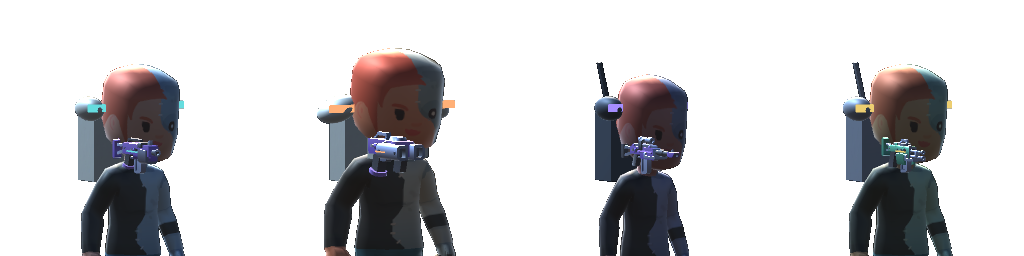
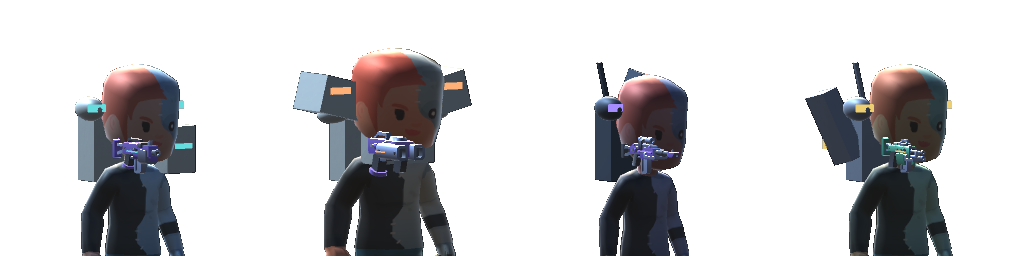
Add arena atmosphere effects and refine pilot silhouettes

diff --git a/unity-vfx-preview/Assets/Scripts/Native/VisorComposite.cs b/unity-vfx-preview/Assets/Scripts/Native/VisorComposite.cs
@@ -9,19 +9,35 @@ namespace Trias.Native
         static readonly int Blur = Shader.PropertyToID("_Blur");
         static readonly int Tone = Shader.PropertyToID("_Tone");
         static readonly int Damage = Shader.PropertyToID("_Damage");
+        static readonly int Shafts = Shader.PropertyToID("_ShaftTex");
+        static readonly int Source = Shader.PropertyToID("_ShaftSource");
+        static readonly int HeightRay = Shader.PropertyToID("_HeightRay");
+        static readonly int Fog = Shader.PropertyToID("_HeightFog");
+        static readonly int FogTint = Shader.PropertyToID("_FogTint");
+        static readonly int ShaftTint = Shader.PropertyToID("_ShaftTint");
+        static readonly int Bloom = Shader.PropertyToID("_Bloom");
         Material material;
+        Camera view;
         internal float DamagePulse;
         internal bool InMatch;
+        internal float Intensity = 1;
         Vector4 tone = Vector4.one;
+        Vector4 fog;
+        Color haze, light;
+        float bloomIntensity, shaftIntensity;
+        Vector3 emitter;
+        bool sunlight;
 
         void Awake()
         {
+            view = GetComponent<Camera>();
             var shader = Resources.Load<Shader>("TRIAS/VisorComposite");
             if (shader != null && shader.isSupported) material = new Material(shader);
         }
 
         internal void Grade(string arena)
         {
+            sunlight = arena == "island";
             tone = arena switch
             {
                 "foundry" => new Vector4(1.07f, .99f, .95f, 1.09f),
@@ -29,31 +45,92 @@ namespace Trias.Native
                 "island" => new Vector4(.86f, .89f, .94f, .85f),
                 _ => new Vector4(.98f, 1.02f, 1.08f, 1.08f)
             };
+            switch (arena)
+            {
+                case "foundry":
+                    fog = new Vector4(.044f, .34f, 2.3f, .19f); haze = Catalog.Tint("#82534e");
+                    light = Catalog.Tint("#ff9b58"); emitter = new Vector3(0, 8.7f, 0);
+                    bloomIntensity = .44f; shaftIntensity = .48f;
+                    break;
+                case "basin":
+                    fog = new Vector4(.026f, -.06f, 3.9f, .20f); haze = Catalog.Tint("#9d786a");
+                    light = Catalog.Tint("#ffc58a"); emitter = new Vector3(-43, 16, 37);
+                    bloomIntensity = .24f; shaftIntensity = .39f;
+                    break;
+                case "island":
+                    fog = new Vector4(.032f, .18f, 2.2f, .23f); haze = Catalog.Tint("#a1caca");
+                    light = Catalog.Tint("#fff2c3");
+                    bloomIntensity = .16f; shaftIntensity = .37f;
+                    break;
+                default:
+                    fog = new Vector4(.023f, -.28f, 2.1f, .14f); haze = Catalog.Tint("#576e87");
+                    light = Catalog.Tint("#ffc776"); emitter = new Vector3(0, 9.4f, 0);
+                    bloomIntensity = .33f; shaftIntensity = .40f;
+                    break;
+            }
+        }
+
+        bool AtmosphereEnabled => InMatch && material != null && Intensity > .01f;
+
+        void OnPreCull()
+        {
+            if (AtmosphereEnabled) view.depthTextureMode |= DepthTextureMode.Depth;
+            else view.depthTextureMode &= ~DepthTextureMode.Depth;
+        }
+
+        float RayHeight(float x, float y)
+        {
+            var direction = view.ViewportPointToRay(new Vector3(x, y, 0)).direction;
+            return direction.y / Mathf.Max(.1f, Vector3.Dot(direction, view.transform.forward));
         }
 
         void OnRenderImage(RenderTexture source, RenderTexture destination)
         {
             if (!InMatch || material == null) { Graphics.Blit(source, destination); return; }
             int width = Mathf.Max(1, source.width / 4), height = Mathf.Max(1, source.height / 4);
-            var bloom = RenderTexture.GetTemporary(width, height, 0, source.format);
-            var scratch = RenderTexture.GetTemporary(width, height, 0, source.format);
+            RenderTexture bloom = null, scratch = null, shafts = null;
             try
             {
-                bloom.filterMode = scratch.filterMode = FilterMode.Bilinear;
-                Graphics.Blit(source, bloom, material, 0);
-                material.SetVector(Blur, new Vector4(1.15f, 0));
-                Graphics.Blit(bloom, scratch, material, 1);
-                material.SetVector(Blur, new Vector4(0, 1.15f));
-                Graphics.Blit(scratch, bloom, material, 1);
-                material.SetTexture(Glow, bloom);
+                float strength = AtmosphereEnabled ? Intensity : 0;
+                if (strength > 0)
+                {
+                    bloom = RenderTexture.GetTemporary(width, height, 0, source.format);
+                    scratch = RenderTexture.GetTemporary(width, height, 0, source.format);
+                    bloom.filterMode = scratch.filterMode = FilterMode.Bilinear;
+                    Graphics.Blit(source, bloom, material, 0);
+                    material.SetVector(Blur, new Vector4(1.15f, 0));
+                    Graphics.Blit(bloom, scratch, material, 1);
+                    material.SetVector(Blur, new Vector4(0, 1.15f));
+                    Graphics.Blit(scratch, bloom, material, 1);
+
+                    Vector3 origin = sunlight ? view.transform.position + TriasWorld.IslandSun * view.farClipPlane : emitter;
+                    Vector3 point = view.WorldToViewportPoint(origin);
+                    if (point.z > 1 && point.x > -.20f && point.x < 1.20f && point.y > -.20f && point.y < 1.20f)
+                    {
+                        shafts = RenderTexture.GetTemporary(width, height, 0, RenderTextureFormat.Default);
+                        shafts.filterMode = FilterMode.Bilinear;
+                        float depth = sunlight ? view.farClipPlane * .97f : Mathf.Max(1, point.z - 2.9f);
+                        material.SetVector(Source, new Vector4(point.x, point.y, depth, shaftIntensity * strength));
+                        Graphics.Blit(source, shafts, material, 3);
+                    }
+                    float baseRay = RayHeight(0, 0);
+                    material.SetVector(HeightRay, new Vector4(baseRay, RayHeight(1, 0) - baseRay, RayHeight(0, 1) - baseRay, view.transform.position.y));
+                }
+                material.SetTexture(Glow, bloom != null ? (Texture)bloom : Texture2D.blackTexture);
+                material.SetTexture(Shafts, shafts != null ? (Texture)shafts : Texture2D.blackTexture);
+                material.SetVector(Fog, new Vector4(fog.x * strength, fog.y, fog.z, fog.w * strength));
+                material.SetColor(FogTint, haze);
+                material.SetColor(ShaftTint, light);
+                material.SetFloat(Bloom, bloomIntensity * strength);
                 material.SetFloat(Damage, DamagePulse);
                 material.SetVector(Tone, tone);
                 Graphics.Blit(source, destination, material, 2);
             }
             finally
             {
-                RenderTexture.ReleaseTemporary(scratch);
-                RenderTexture.ReleaseTemporary(bloom);
+                if (shafts != null) RenderTexture.ReleaseTemporary(shafts);
+                if (scratch != null) RenderTexture.ReleaseTemporary(scratch);
+                if (bloom != null) RenderTexture.ReleaseTemporary(bloom);
             }
         }
 

diff --git a/unity-vfx-preview/Assets/Scripts/Native/TriasWorld.Presentation.cs b/unity-vfx-preview/Assets/Scripts/Native/TriasWorld.Presentation.cs
@@ -1,4 +1,5 @@
 using UnityEngine;
+using System.Collections.Generic;
 
 namespace Trias.Native
 {
@@ -9,6 +10,8 @@ namespace Trias.Native
         Light reactorLight;
         Color reactorTint;
         float reactorShock;
+        internal static readonly Vector3 IslandSun = new Vector3(-.9f, .19f, .41f).normalized;
+        readonly List<Transform> excavators = new List<Transform>();
 
         void ConfigureSky(Camera view)
         {
@@ -28,6 +31,7 @@ namespace Trias.Native
             orbitalSky.SetColor("_LightColor", Catalog.Tint(island ? "#fff2cb" : "#f6b57b"));
             orbitalSky.SetColor("_Body", Catalog.Tint(Spec.id == "basin" ? "#594543" : "#385064"));
             orbitalSky.SetVector("_Planet", new Vector4(-.78f, .31f, .53f, .32f));
+            if (island) orbitalSky.SetVector("_SunDirection", IslandSun);
             orbitalSky.SetFloat("_Daylight", island ? 1 : 0);
             RenderSettings.skybox = orbitalSky;
             view.clearFlags = CameraClearFlags.Skybox;
@@ -62,14 +66,84 @@ namespace Trias.Native
             }
         }
 
-        void BuildReactor(bool foundry)
+        void BuildFoundryStacks()
         {
-            var mount = Group(Root, foundry ? "Tavicí komora" : "Orbitální relé", new Vector3(0, foundry ? 8.5f : 9.4f, 0));
-            reactorTint = Catalog.Tint(foundry ? "#ff743f" : "#ffab68");
-            reactorEnergy = MaterialAt(foundry ? "#ff743f" : "#ffab68", true);
-            var shell = MaterialAt(foundry ? "#745052" : "#637988", false, "bulkhead");
+            var steel = MaterialAt("#60454a", false, "armor");
+            var refractory = MaterialAt("#de794c", true);
+            for (int side = 0; side < 3; side++)
+            {
+                var furnace = Group(Root, "Foundry exhaust bank");
+                furnace.rotation = Quaternion.Euler(0, 120 * side, 0);
+                for (int i = -1; i <= 1; i++)
+                {
+                    float height = 7.8f + (i == 0 ? 2.3f : 0);
+                    var stack = Group(furnace, "Exhaust stack", new Vector3(i * 3.6f, 0, Spec.length + 7));
+                    Part(stack, steel, Vector3.up * (height / 2), new Vector3(2.4f, height / 2, 2.4f), PrimitiveType.Cylinder);
+                    Part(stack, Dark, Vector3.up * (height - .25f), new Vector3(2.9f, .47f, 2.9f), PrimitiveType.Cylinder);
+                    Ring(stack, Vector3.up * (height + .22f), 1.23f, refractory, .16f, 24);
+                    Ring(stack, Vector3.up * (height - 1.1f), 1.23f, Dark, .39f, 24);
+                }
+                Beam(furnace, steel, new Vector3(-8, 5.3f, Spec.length + 6), new Vector3(8, 5.3f, Spec.length + 6), 1.06f);
+            }
+        }
+
+        void BuildMiningRigs()
+        {
+            var rust = MaterialAt("#936858", false, "armor");
+            var marker = MaterialAt("#ffae63", true);
+            for (int i = 0; i < 3; i++)
+            {
+                var mast = Group(Root, "Mining rig");
+                mast.rotation = Quaternion.Euler(0, i * 120 + 27, 0);
+                float edge = Spec.length + 5.5f;
+                Vector3 bearing = new Vector3(0, 13.6f, edge);
+                Beam(mast, rust, new Vector3(-4, -.6f, edge), bearing, .93f);
+                Beam(mast, rust, new Vector3(4, -.6f, edge), bearing, .93f);
+                Beam(mast, Dark, new Vector3(-2.7f, 4.5f, edge), new Vector3(2.7f, 4.5f, edge), .52f);
+                var pivot = Group(mast, "Excavator arm", bearing);
+                Beam(pivot, Dark, new Vector3(-7, 0, 0), new Vector3(10.4f, 0, 0), .72f);
+                Part(pivot, rust, new Vector3(8.6f, -.7f, 0), new Vector3(3.1f, 2.05f, 1.73f));
+                Part(pivot, marker, new Vector3(-6.5f,.18f,0), new Vector3(.31f,.25f,.31f));
+                excavators.Add(pivot);
+            }
+        }
+
+        void BuildCrucible()
+        {
+            var mount = Group(Root, "Tavicí komora", new Vector3(0, 8.7f, 0));
+            var refractory = MaterialAt("#81443c", false, "bulkhead");
+            var insulation = MaterialAt("#3b272c", false, "armor");
+            var hot = MaterialAt("#ffa245", true);
+            reactorTint = Catalog.Tint("#ff672d");
+            reactorEnergy = MaterialAt("#ff672d", true);
+            reactorRotor = Group(mount, "Molten charge");
+            Part(reactorRotor, reactorEnergy, Vector3.zero, new Vector3(2.2f, .98f, 2.2f), PrimitiveType.Sphere);
+            var rim = Ring(mount, Vector3.zero, 3.2f, hot, .15f, 48);
+            rim.transform.localPosition = Vector3.down * .38f;
+            for (int i = 0; i < 8; i++)
+            {
+                var rib = Group(mount, "Refractory collar");
+                rib.localRotation = Quaternion.Euler(0, i * 45, 0);
+                Beam(rib, refractory, new Vector3(-1.27f, -.76f, 3.15f), new Vector3(1.27f, -.76f, 3.15f), .72f);
+                Beam(rib, insulation, new Vector3(-1.34f, -1.48f, 3.31f), new Vector3(1.34f, -1.48f, 3.31f), .51f);
+                Beam(rib, refractory, new Vector3(0, -1.42f, 3.15f), new Vector3(0, -2.4f, 1.62f), .88f);
+                Beam(rib, hot, new Vector3(-.87f, -.55f, 3.54f), new Vector3(.87f, -.55f, 3.54f), .072f);
+                if (i % 2 != 0) continue;
+                Beam(rib, insulation, new Vector3(0, -.9f, 3.48f), new Vector3(0, 3.8f, 7.0f), 1.05f);
+                Beam(rib, refractory, new Vector3(0, 3.8f, 7.0f), new Vector3(0, 4.2f, 13.3f), .68f);
+                Part(rib, hot, new Vector3(0, 3.66f, 7.02f), new Vector3(.32f, .2f, .51f));
+            }
+            SetReactorLight(mount);
+        }
+
+        void BuildReactor()
+        {
+            var mount = Group(Root, "Orbitální relé", new Vector3(0, 9.4f, 0));
+            reactorTint = Catalog.Tint("#ffab68");
+            reactorEnergy = MaterialAt("#ffab68", true);
+            var shell = MaterialAt("#637988", false, "bulkhead");
             var pale = MaterialAt("#f4bb7d", true);
-            var baseGlow = MaterialAt(foundry ? "#ff6836" : "#6abbbd", true);
+            var baseGlow = MaterialAt("#6abbbd", true);
             reactorRotor = Group(mount, "Reactor rotor");
             var crystal = Part(reactorRotor, reactorEnergy, Vector3.zero, new Vector3(1.94f, 2.35f, 1.94f));
             crystal.localRotation = Quaternion.Euler(36, 43, 28);
@@ -88,6 +162,11 @@ namespace Trias.Native
                 var ring = Ring(reactorRotor, Vector3.zero, 2.12f + i * .17f, i == 0 ? pale : reactorEnergy, .075f, 44);
                 ring.transform.localRotation = Quaternion.Euler(30 + i * 44, i * 40, 23);
             }
+            SetReactorLight(mount);
+        }
+
+        void SetReactorLight(Transform mount)
+        {
             reactorLight = Group(mount, "Reactor spill", Vector3.down * .85f).gameObject.AddComponent<Light>();
             reactorLight.type = LightType.Point;
             reactorLight.color = reactorTint;
@@ -106,6 +185,8 @@ namespace Trias.Native
 
         void AnimateLandmark(float time)
         {
+            for (int i = 0; i < excavators.Count; i++)
+                excavators[i].localRotation = Quaternion.Euler(0, i * 14, Mathf.Sin(time * .44f + i * 1.7f) * 6.2f);
             if (reactorRotor == null) return;
             reactorShock = Mathf.MoveTowards(reactorShock, 0, Time.unscaledDeltaTime * .63f);
             float pulse = .5f + .5f * Mathf.Sin(time * 2.3f);

diff --git a/unity-vfx-preview/Assets/Scripts/Native/TriasClient.Feel.cs b/unity-vfx-preview/Assets/Scripts/Native/TriasClient.Feel.cs
@@ -4,7 +4,7 @@ namespace Trias.Native
 {
     public sealed partial class TriasClient
     {
-        float baseFov, cameraMotion, masterVolume, ambienceVolume;
+        float baseFov, cameraMotion, masterVolume, ambienceVolume, visualEffects;
         float gunTravel, gunTravelVelocity, gunLift, gunLiftVelocity, gunTwist, gunTwistVelocity;
         float cameraKick, cameraKickVelocity, landingStep, landingVelocity, airSpeed;
         float previousPitch, previousYaw, swayX, swayY;
@@ -20,6 +20,8 @@ namespace Trias.Native
             cameraMotion = Mathf.Clamp01(PlayerPrefs.GetFloat("trias.motion", .82f));
             masterVolume = Mathf.Clamp01(PlayerPrefs.GetFloat("trias.volume", .85f));
             ambienceVolume = Mathf.Clamp01(PlayerPrefs.GetFloat("trias.ambience", .72f));
+            visualEffects = Mathf.Clamp01(PlayerPrefs.GetFloat("trias.visualEffects", 1));
+            visor.Intensity = visualEffects;
             sensitivity = Mathf.Clamp(PlayerPrefs.GetFloat("trias.sensitivity", sensitivity), .5f, 5);
             AudioListener.volume = masterVolume;
         }
@@ -125,9 +127,9 @@ namespace Trias.Native
 
         void PaintPause(float w, float h)
         {
-            float x = w / 2 - 242, y = h / 2 - 205;
+            float x = w / 2 - 242, y = h / 2 - 223;
             Fill(new Rect(0,0,w,h),new Color(.012f,.024f,.041f,.80f));
-            CornerPanel(new Rect(x, y, 484, 410), Amber);
+            CornerPanel(new Rect(x, y, 484, 444), Amber);
             DrawInsignia(new Vector2(x + 37, y + 35), 17, Amber);
             GUI.Label(new Rect(x + 62, y + 16, 388, 38), "Nastavení", heading);
             GUI.Label(new Rect(x + 24, y + 64, 436, 27), "Online zápas běží dál", caption);
@@ -137,11 +139,13 @@ namespace Trias.Native
             box.y += 34; Option(box, "Pohyb kamery", "trias.motion", ref cameraMotion, 0, 1, true);
             box.y += 34; Option(box, "Hlasitost", "trias.volume", ref masterVolume, 0, 1, true);
             box.y += 34; Option(box, "Atmosféra", "trias.ambience", ref ambienceVolume, 0, 1, true);
+            box.y += 34; Option(box, "Světelné efekty", "trias.visualEffects", ref visualEffects, 0, 1, true);
+            visor.Intensity = visualEffects;
             AudioListener.volume = masterVolume;
             effects.AmbienceMix(ambienceVolume, false);
-            if (Preset(new Rect(x + 22, y + 277, 440, 42), "Zpět do zápasu", null, true)) Capture(true);
-            if (Preset(new Rect(x + 22, y + 327, 440, 41), "Opustit místnost", null, false)) Disconnect(null);
-            GUI.Label(new Rect(x + 24, y + 376, 430, 22), "WASD  ·  Shift  ·  mezerník  ·  Q úhyb  ·  R přebít  ·  E použít", caption);
+            if (Preset(new Rect(x + 22, y + 311, 440, 42), "Zpět do zápasu", null, true)) Capture(true);
+            if (Preset(new Rect(x + 22, y + 361, 440, 41), "Opustit místnost", null, false)) Disconnect(null);
+            GUI.Label(new Rect(x + 24, y + 410, 430, 22), "WASD  ·  Shift  ·  mezerník  ·  Q úhyb  ·  R přebít  ·  E použít", caption);
         }
 
         void Option(Rect row, string name, string key, ref float value, float min, float max, bool percent, int decimals = 0)

diff --git a/unity-vfx-preview/Assets/Scripts/Native/TriasModels.cs b/unity-vfx-preview/Assets/Scripts/Native/TriasModels.cs
@@ -132,7 +132,35 @@ namespace Trias.Native
             if (kit == "wraith" || kit == "kestrel")
                 TriasWorld.Part(pack, shell, new Vector3(.096f,.28f,0),new Vector3(.022f,.35f,.022f)).localRotation = Quaternion.Euler(0, 0, -13);
             if (kit == "bulwark")
-                TriasWorld.Part(body, shell, new Vector3(0, 1.20f, .15f), new Vector3(.31f, .22f, .11f));
+            {
+                TriasWorld.Part(body, shell, new Vector3(0, 1.20f, .15f), new Vector3(.37f, .27f, .14f));
+                for (int side = -1; side <= 1; side += 2)
+                {
+                    var heavy = TriasWorld.Part(body, shell, new Vector3(side * .32f, 1.42f, -.018f), new Vector3(.245f, .20f, .29f));
+                    heavy.localRotation = Quaternion.Euler(0, 0, side * 14);
+                    TriasWorld.Part(body, accent, new Vector3(side * .34f, 1.46f, .133f), new Vector3(.115f, .036f, .023f));
+                }
+            }
+            else if (kit == "wraith")
+            {
+                var scanner = TriasWorld.Part(pack, w.Dark, new Vector3(-.14f,.22f,-.06f), new Vector3(.18f,.31f,.14f));
+                scanner.localRotation = Quaternion.Euler(8, 0, 19);
+                TriasWorld.Part(scanner, accent, new Vector3(0,.24f,-.55f), new Vector3(.54f,.11f,.12f));
+            }
+            else if (kit == "kestrel")
+            {
+                for (int side = -1; side <= 1; side += 2)
+                {
+                    var fin = TriasWorld.Part(pack, w.Steel, new Vector3(side * .22f,.11f,-.064f), new Vector3(.095f,.39f,.19f));
+                    fin.localRotation = Quaternion.Euler(-11, 0, side * -21);
+                    TriasWorld.Part(pack, accent, new Vector3(side * .21f,.03f,-.168f), new Vector3(.044f,.095f,.025f));
+                }
+            }
+            else
+            {
+                TriasWorld.Part(body, shell, new Vector3(-.21f,1.13f,.135f), new Vector3(.17f,.25f,.14f));
+                TriasWorld.Part(body, accent, new Vector3(-.22f,1.15f,.209f), new Vector3(.10f,.028f,.024f));
+            }
         }
 
         Transform Leg(int side)

diff --git a/unity-vfx-preview/Assets/Scripts/Native/TriasWorld.cs b/unity-vfx-preview/Assets/Scripts/Native/TriasWorld.cs
@@ -206,6 +206,7 @@ namespace Trias.Native
             BuildInfrastructure();
             if (basin)
             {
+                BuildMiningRigs();
                 var road = MaterialAt("#82707c");
                 Ring(Root, Vector3.up * 0.02f, Spec.roadRadius, road, 7.6f, 128);
                 Ring(Root, Vector3.up * 0.04f, Spec.roadRadius + 3.75f, Dark, 0.10f, 128);
@@ -219,10 +220,11 @@ namespace Trias.Native
             }
             else
             {
-                var hot = MaterialAt(foundry ? "#ff7138" : "#ff4b85", true);
-                BuildReactor(foundry);
                 if (foundry)
                 {
+                    BuildCrucible();
+                    BuildFoundryStacks();
+                    var hot = MaterialAt("#ff7138", true);
                     for (int i = 0; i < 3; i++)
                     {
                         var channel = Group(Root, "Molten channel");
@@ -232,6 +234,7 @@ namespace Trias.Native
                         Part(channel, Dark, new Vector3(1.20f, 0.023f, 19), new Vector3(0.18f, 0.029f, 23));
                     }
                 }
+                else BuildReactor();
             }
         }
 
